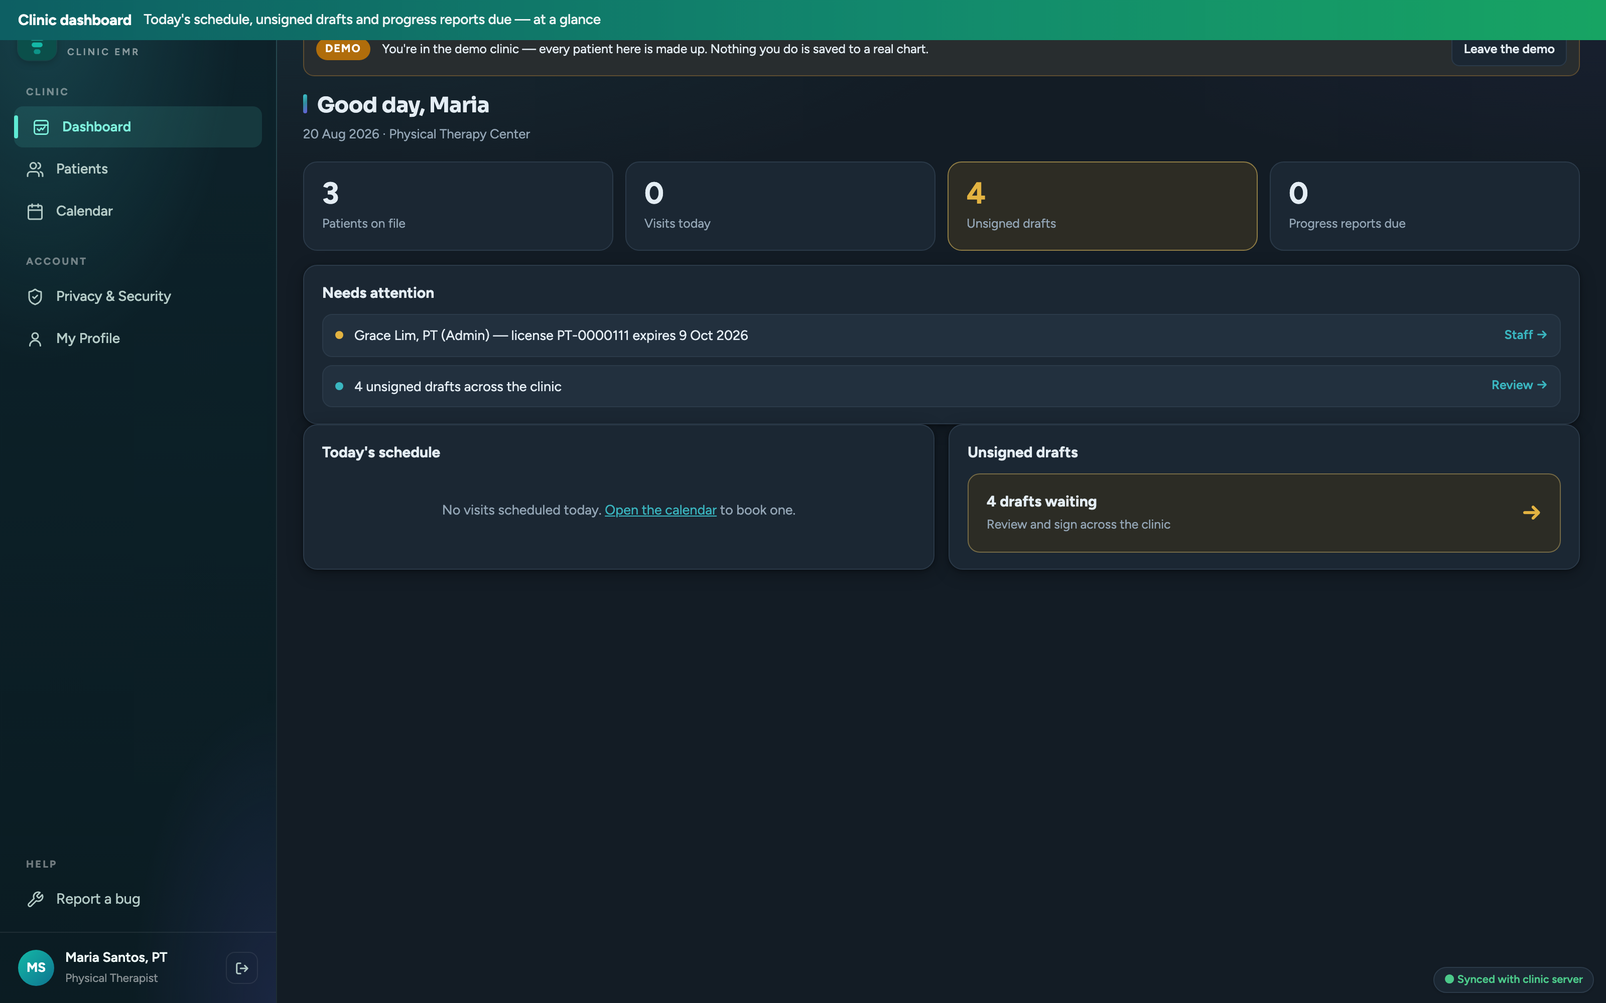
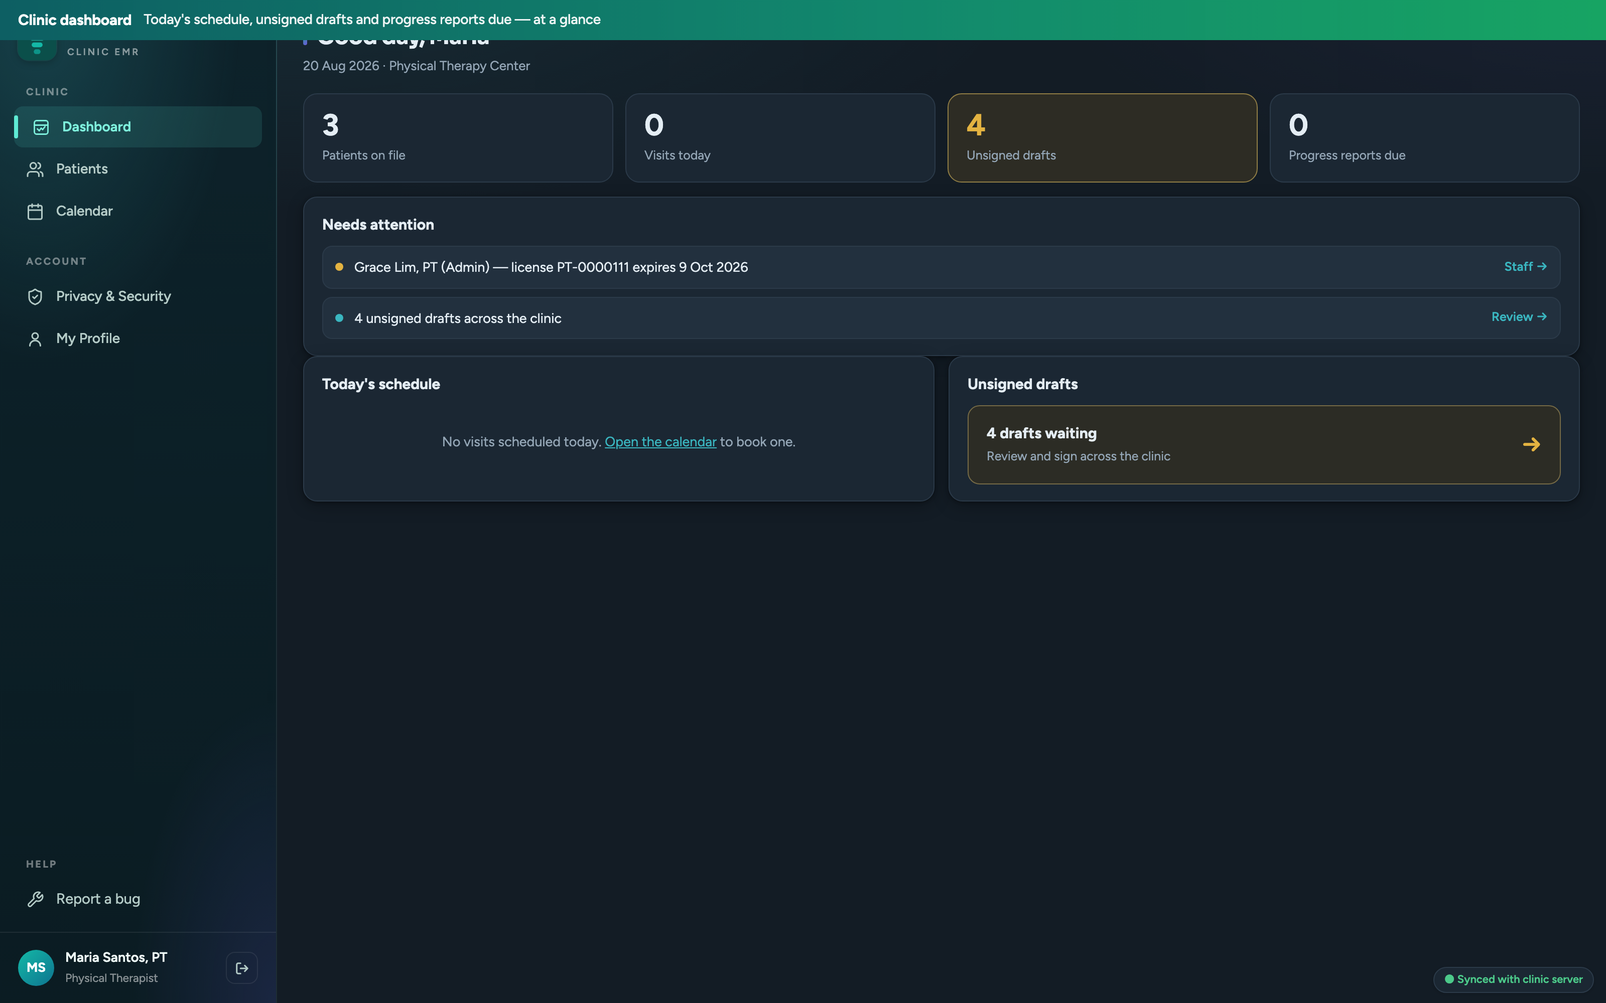
Photograph the product as it is now, from a script that can do it again
The walkthrough was showing an app we no longer ship. A single-card note
column, a "Listen" button, an "English" language picker — every one of those
had moved on, and the landing page was still promising them to anyone who
scrolled. A stale screenshot is worse than no screenshot: it is a promise you
can't keep, made to the exact person you are asking to trust you with patient
records.

The reason they went stale is that recapturing them was a manual afternoon.
So the fix is not twenty-four new images, it is tools/capture-screenshots.js —
boot a throwaway server on a free port with a fresh seed, drive the real app,
and write all three sets. `node tools/capture-screenshots.js` after a UI change,
or name the frames you want. Nothing in the pictures is posed: the note in
shots 05-08 is built by typing real sentences into the note's own dictation
box, so the pinned body-map finding and the three filed measurements are the
parser's actual output, and shot 08 is signed by actually signing it.

TWO BUGS FELL OUT OF POSING THE SHOTS, both in the fill counts added with the
workflow groups, and both of the same kind: a count that quietly said nothing
was there.

  The Objective group could never see measurements at all. It counted
  `data.measurements` — a key nothing writes, because dictation sorts them into
  rom / mmt / special / pain as it files them. Four measurements sat under a
  group reading 0. `outstandingWork` had the same wrong key and got away with
[…]

diff --git a/tools/capture-screenshots.js b/tools/capture-screenshots.js
@@ -98,6 +98,30 @@ async function signInAs(page, base, userId) {
   await sleep(400);
 }
 
+const toTop = async (page) => { await page.evaluate(() => window.scrollTo(0, 0)); await sleep(250); };
+
+/** Frame the note column on one workflow group by name.
+
+    "top" puts the group's header just under the fold — right for a group whose
+    content is the subject. "bottom" lands the group's END near the bottom of
+    the frame, which is what a LAST group needs: anchoring it to the top instead
+    scrolled the whole note off and left half the picture empty above the cards
+    that follow the note. Anchored to the group, not to a pixel offset, so a
+    copy change doesn't slide the subject out of frame. */
+async function frameGroup(page, name, align = "top") {
+  await page.evaluate(({ name, align }) => {
+    const g = [...document.querySelectorAll("details.doc-group")]
+      .find((x) => new RegExp(name, "i").test(x.querySelector(".doc-group-title").textContent));
+    if (!g) return;
+    const r = g.getBoundingClientRect();
+    const top = r.top + window.scrollY;
+    window.scrollTo(0, Math.max(0, align === "bottom"
+      ? top + r.height - window.innerHeight + 78
+      : top - 90));
+  }, { name, align });
+  await sleep(400);
+}
+
 async function goHash(page, hash) {
   await page.evaluate((h) => { location.hash = "#/dashboard"; }, hash);
   await sleep(120);
@@ -126,17 +150,25 @@ async function buildDictatedNote(page, base) {
   });
   builtDocId = id;
   await goHash(page, `#/doc/${id}`);
+  /* Ordered the way a visit is actually spoken, and chosen because the parser
+     files all four somewhere visible: the complaint pins the body map and fills
+     Subjective, the measurement run splits into three rows, the treatment
+     sentence fills Treatment summary and the last line drafts the Assessment.
+     Sentences that file nowhere make a picture of an empty form. */
   const lines = [
     "patient reports right shoulder pain seven out of ten, worse reaching overhead",
     "right shoulder abduction 90 degrees, external rotation 45, deltoid strength 4 out of 5",
-    "performed scapular retraction and rotator cuff isometrics, reviewed home programme",
+    "we did therapeutic exercise with the theraband and manual therapy to the posterior capsule",
+    "patient tolerated treatment well and reported less pain afterwards",
   ];
   for (const line of lines) {
     await page.fill("#typedDictation", line);
     await page.press("#typedDictation", "Enter");
     await sleep(350);
   }
-  await sleep(500);
+  // typing scrolls the box into view; the shot wants the top of the note
+  await page.evaluate(() => window.scrollTo(0, 0));
+  await sleep(600);
   return id;
 }
 
@@ -160,7 +192,7 @@ const SHOTS = [
   },
   {
     file: "walkthrough/02-patient-overview.jpg", theme: "light", as: "u-maria",
-    async act(page) { await goHash(page, "#/patient/p-juan"); await patientTab(page, "Overview"); },
+    async act(page) { await goHash(page, "#/patient/p-juan"); await patientTab(page, "Overview"); await toTop(page); },
   },
   {
     file: "walkthrough/03-documents.jpg", theme: "light", as: "u-maria",
@@ -186,12 +218,7 @@ const SHOTS = [
     async act(page, base) {
       if (!builtDocId) await buildDictatedNote(page, base);
       else await goHash(page, `#/doc/${builtDocId}`);
-      await page.evaluate(() => {
-        const g = [...document.querySelectorAll("details.doc-group")]
-          .find((x) => /Objective/.test(x.querySelector(".doc-group-title").textContent));
-        if (g) window.scrollTo(0, g.getBoundingClientRect().top + window.scrollY - 90);
-      });
-      await sleep(400);
+      await frameGroup(page, "Objective");
     },
   },
   {
@@ -211,17 +238,53 @@ const SHOTS = [
     },
   },
   {
-    /* A signed note, framed on its Billing group — the units are the point, and
-       the signature block underneath is what makes them a claim. */
+    /* The units are the point, and the signature under them is what makes them
+       a claim — so this is the note built above, charged from its own treatment
+       summary and then actually signed. A seeded note would have been less work
+       and a worse picture: those carry no transcript, so half the frame was an
+       empty left column. */
     file: "walkthrough/08-billing.jpg", theme: "light", as: "u-maria",
-    async act(page) {
-      await goHash(page, "#/doc/d-daily-juan-1");
+    async act(page, base) {
+      if (!builtDocId) await buildDictatedNote(page, base);
+      else await goHash(page, `#/doc/${builtDocId}`);
+
+      /* The charge sheet a therapist would have typed for what was dictated —
+         therapeutic exercise and manual therapy. 97110 is deliberately left
+         claiming one unit against 23 minutes: the claim this slide makes is
+         that the app works out what the units SHOULD be and flags the
+         disagreement, and a sheet that already adds up demonstrates nothing. */
+      await page.evaluate((id) => {
+        const S = window.TheraStore;
+        const d = S.getDoc(id);
+        d.data.charges = [
+          { code: "97110", desc: "Therapeutic exercise", minutes: 23, units: 1 },
+          { code: "97140", desc: "Manual therapy", minutes: 15, units: 1 },
+        ];
+        S.updateDocData(id, d.data, S.currentUser());
+      }, builtDocId);
+      await goHash(page, `#/doc/${builtDocId}`);
+
+      // e-sign. A demo account holds no password, so the modal re-auths on the
+      // typed name alone — see store.signDoc.
+      await page.click("#signBtn");
+      await page.waitForSelector("#sigName", { timeout: 10000 });
+      await page.fill("#sigName", "Maria Santos, PT");
+      await page.click("#sigOk");
+      await page.waitForFunction(() => !!document.querySelector(".lock-banner"), null, { timeout: 10000 });
+      await sleep(500);
+
+      /* Collapse the steps that aren't the subject. This is a real action a
+         real therapist takes — the groups exist to be shut — and it is what
+         makes the picture: the charge sheet and the signature sit high in the
+         column beside the body map, instead of a screenful below it with half
+         the frame left empty. */
       await page.evaluate(() => {
-        const g = [...document.querySelectorAll("details.doc-group")]
-          .find((x) => /Billing/.test(x.querySelector(".doc-group-title").textContent));
-        if (g) window.scrollTo(0, g.getBoundingClientRect().top + window.scrollY - 90);
+        document.querySelectorAll("details.doc-group").forEach((g) => {
+          if (!/Billing/i.test(g.querySelector(".doc-group-title").textContent)) g.open = false;
+        });
       });
       await sleep(400);
+      await toTop(page);
     },
   },
   {
@@ -236,8 +299,8 @@ const SHOTS = [
     file: "walkthrough/10-intake-guardrails.jpg", theme: "light", as: "u-maria",
     async act(page) {
       await goHash(page, "#/intake");
-      await page.fill("#in-first", "Juan");
-      await page.fill("#in-last", "Reyes");
+      await page.fill("#in-first", "Mark Anthony");
+      await page.fill("#in-last", "Bautista");
       await page.fill("#in-dob", "1988-04-12");
       await page.fill("#in-phone", "0917555");
       await page.click("#intakeSave");
@@ -303,6 +366,13 @@ async function capture(page, base, shot, session) {
 
   // re-assert after the act: a full re-render can replace <html>'s attributes
   await page.evaluate((t) => document.documentElement.setAttribute("data-theme", t), shot.theme);
+
+  /* The demo banner is honest and must stay in the app — but these captures
+     are pictures of the product a clinic buys, and that clinic never sees it.
+     Leaving it in would put "nothing you do is saved to a real chart" across
+     the top of our own marketing. Removed from the frame, not from the app. */
+  await page.evaluate(() => document.querySelector(".demo-banner")?.remove());
+  await sleep(150);
 
   const raw = path.join(TMP, `raw-${Math.random().toString(36).slice(2)}.png`);
 

diff --git a/store.js b/store.js
@@ -101,13 +101,17 @@
       patients: [
         {
           id: "p-juan",
-          firstName: "Juan", lastName: "Reyes",
+          /* Record ids are historical and deliberately stable — `p-juan` and
+             `p-liza` predate a rename of the demo patients and are referenced
+             by tests, the screenshot harness and seeded document ids. The id is
+             opaque; the name is what anyone reads. */
+          firstName: "Mark Anthony", lastName: "Bautista",
           dob: "1988-04-12", sex: "M",
           address: "12 Mabini St, Cebu City",
           phone: "+63 917 555 0101", email: "juan.reyes@example.com",
           referringPhysician: "Dr. R. Cruz (Ortho)",
           allergies: "Penicillin — rash. Latex sensitivity (use nitrile gloves).",
-          emergencyContact: { name: "Marites Reyes", relationship: "Spouse", phone: "+63 917 555 0111" },
+          emergencyContact: { name: "Marites Bautista", relationship: "Spouse", phone: "+63 917 555 0111" },
           insurance: { provider: "PhilHealth", memberId: "PH-4451-2231", notes: "Co-pay ₱150/visit" },
           authorization: { visitsAuthorized: 18, expiresOn: t(46, 12, 0).slice(0, 10), reference: "AUTH-88213" },
           goals: [
@@ -127,20 +131,20 @@
           ],
           attachments: [
             { id: "a-1", name: "Referral - Dr. Cruz.txt", type: "text/plain",
-              dataUrl: "data:text/plain;base64," + b64("Referral: Juan Reyes\nDx: Right rotator cuff strain\nPT eval and treat 2-3x/week for 6 weeks.\n- Dr. R. Cruz"),
+              dataUrl: "data:text/plain;base64," + b64("Referral: Mark Anthony Bautista\nDx: Right rotator cuff strain\nPT eval and treat 2-3x/week for 6 weeks.\n- Dr. R. Cruz"),
               uploadedBy: "u-ana", uploadedAt: t(-14, 9, 0) },
           ],
           createdBy: "u-ana", createdAt: t(-14, 8, 30),
         },
         {
           id: "p-liza",
-          firstName: "Liza", lastName: "Mercado",
+          firstName: "Marilou", lastName: "Gonzales",
           dob: "1975-11-02", sex: "F",
           address: "88 Osmeña Blvd, Cebu City",
           phone: "+63 917 555 0202", email: "liza.mercado@example.com",
           referringPhysician: "Dr. A. Tan (Family Med)",
           allergies: "",
-          emergencyContact: { name: "Ramon Mercado", relationship: "Son", phone: "+63 917 555 0222" },
+          emergencyContact: { name: "Ramon Gonzales", relationship: "Son", phone: "+63 917 555 0222" },
           insurance: { provider: "Maxicare", memberId: "MX-99-887766", notes: "" },
           // deliberately near the end of the authorisation, so the warning shows
           authorization: { visitsAuthorized: 8, expiresOn: t(12, 12, 0).slice(0, 10), reference: "MX-AUTH-5512" },
@@ -349,18 +353,18 @@
       // A little activity history so the Privacy &amp; Security log reads like a
       // living feed (varied actions/people) the moment the demo opens.
       audit: [
-        { time: t(-14, 8, 30), userId: "u-ana", action: "patient-created", detail: "Juan Reyes" },
-        { time: t(-14, 9, 0), userId: "u-ana", action: "attachment-added", detail: "Referral - Dr. Cruz.txt · Juan Reyes" },
-        { time: t(-13, 10, 0), userId: "u-maria", action: "doc-created", detail: "Initial Evaluation for Juan Reyes" },
-        { time: t(-13, 11, 0), userId: "u-maria", action: "doc-signed", detail: "Initial Evaluation for Juan Reyes" },
-        { time: t(-12, 14, 40), userId: "u-maria", action: "doc-signed", detail: "Daily Treatment Note — Visit 1 for Juan Reyes" },
-        { time: t(-10, 10, 0), userId: "u-ana", action: "patient-created", detail: "Liza Mercado" },
-        { time: t(-9, 9, 20), userId: "u-maria", action: "transcript-refined", detail: "Initial Evaluation · Liza Mercado" },
-        { time: t(-7, 15, 0), userId: "u-maria", action: "ai-chart-review", detail: "Juan Reyes" },
-        { time: t(-5, 14, 40), userId: "u-maria", action: "doc-signed", detail: "Daily Treatment Note — Visit 4 for Juan Reyes" },
-        { time: t(-4, 11, 0), userId: "u-ana", action: "appointment-created", detail: "Juan Reyes · 9:00 AM" },
+        { time: t(-14, 8, 30), userId: "u-ana", action: "patient-created", detail: "Mark Anthony Bautista" },
+        { time: t(-14, 9, 0), userId: "u-ana", action: "attachment-added", detail: "Referral - Dr. Cruz.txt · Mark Anthony Bautista" },
+        { time: t(-13, 10, 0), userId: "u-maria", action: "doc-created", detail: "Initial Evaluation for Mark Anthony Bautista" },
+        { time: t(-13, 11, 0), userId: "u-maria", action: "doc-signed", detail: "Initial Evaluation for Mark Anthony Bautista" },
+        { time: t(-12, 14, 40), userId: "u-maria", action: "doc-signed", detail: "Daily Treatment Note — Visit 1 for Mark Anthony Bautista" },
+        { time: t(-10, 10, 0), userId: "u-ana", action: "patient-created", detail: "Marilou Gonzales" },
+        { time: t(-9, 9, 20), userId: "u-maria", action: "transcript-refined", detail: "Initial Evaluation · Marilou Gonzales" },
+        { time: t(-7, 15, 0), userId: "u-maria", action: "ai-chart-review", detail: "Mark Anthony Bautista" },
+        { time: t(-5, 14, 40), userId: "u-maria", action: "doc-signed", detail: "Daily Treatment Note — Visit 4 for Mark Anthony Bautista" },
+        { time: t(-4, 11, 0), userId: "u-ana", action: "appointment-created", detail: "Mark Anthony Bautista · 9:00 AM" },
         { time: t(-3, 16, 20), userId: "u-grace", action: "settings-updated", detail: "progress report every 5 visits" },
-        { time: t(-2, 7, 5), userId: null, action: "reminder-sent", detail: "Liza Mercado · SMS (simulated)" },
+        { time: t(-2, 7, 5), userId: null, action: "reminder-sent", detail: "Marilou Gonzales · SMS (simulated)" },
         { time: t(-1, 8, 15), userId: null, action: "access-requested", detail: "google:ramil.torres@gmail.com" },
         { time: t(0, 7, 50), userId: null, action: "access-requested", detail: "google:bea.n@bayanihanpt.ph" },
       ],

diff --git a/app.js b/app.js
@@ -1309,7 +1309,7 @@ ${walkthroughMarkup()}`;
       title: "Measurements sort themselves into the right rows.",
       now: "ROM and strength go on a paper form, then get copied into the note, then copied again into the progress report.",
       here: 'Say <i>"right shoulder abduction 90 degrees, external rotation 45, deltoid strength 4 over 5"</i> and all three land as separate, labelled measurements — joint, motion, side and value — without you naming the joint twice.',
-      where: "Inside any note · <b>Objective measurements</b>, right column",
+      where: "Inside any note · step <b>Objective</b>, in the note column",
     },
     {
       shot: "07-ai-review",
@@ -1330,7 +1330,7 @@ ${walkthroughMarkup()}`;
       title: "The units are counted for you.",
       now: "Someone works out timed units by hand against the 8-minute rule, and a miscount is either lost revenue or a claim problem.",
       here: "Enter the interventions and minutes. TheraChart computes what the units <i>should</i> be and flags a mismatch instead of silently billing whatever was typed. The signature, licence number and timestamp lock to the note.",
-      where: "Inside any note · <b>Billing — CPT codes, minutes and units</b>",
+      where: "Inside any note · the last step, <b>Billing</b>",
     },
     {
       shot: "04-patient-info",
@@ -5801,6 +5801,11 @@ ${!canDoc && !locked ? `<div class="banner warn">Read-only: your account cannot 
     drawMapNotes(doc, dstate);
     drawTranscript(doc, null, dstate);
     refreshMeasTable(doc);
+    /* The note's own header summary and the per-group fill counts both describe
+       what is in the document, and dictation is the main thing that puts
+       anything there — without this a group filled itself while its count sat
+       at 0, which is precisely the case the count exists for. */
+    renderFieldGuide(doc);
     const log = document.getElementById("routeLog");
     if (log) log.textContent = routed.length ? "Filed: " + routed.join(" · ") : "Heard (saved to transcript)";
   }
@@ -5822,6 +5827,7 @@ ${!canDoc && !locked ? `<div class="banner warn">Read-only: your account cannot 
     temp.innerHTML = measurementEditor(doc, doc.status !== "signed" && S.canDocument(S.currentUser()));
     holder.replaceWith(temp.firstElementChild);
     bindMeasurementEditor(doc, S.currentUser());
+    renderFieldGuide(doc);
   }
 
   function addDocMapPoint(doc, m, uttId, time) {
@@ -5905,9 +5911,17 @@ ${!canDoc && !locked ? `<div class="banner warn">Read-only: your account cannot 
      "@measurements" / "@goals". Both answer the same question — has this part
      of the note got anything in it — which is what the group's fill count on
      the header is counting. */
-  const docPartCount = (doc, id) => (id === "goals"
-    ? S.goalsFor(doc.patientId).length
-    : ((doc.data || {})[id] || []).length);
+  /* Measurements are not one array — dictation sorts them into rom / mmt /
+     special / pain as it files them, and the editor renders the four as one
+     table. Counting `data.measurements` counted a key nothing ever writes, so
+     the Objective group read 0 with four measurements sitting under it. */
+  const MEASUREMENT_KEYS = ["rom", "mmt", "special", "pain"];
+  const docPartCount = (doc, id) => {
+    const data = doc.data || {};
+    if (id === "goals") return S.goalsFor(doc.patientId).length;
+    if (id === "measurements") return MEASUREMENT_KEYS.reduce((n, k) => n + ((data[k] || []).length), 0);
+    return (data[id] || []).length;
+  };
   const docItemDone = (doc, it) => (it.charAt(0) === "@"
     ? docPartCount(doc, it.slice(1)) > 0
     : !!String((doc.data || {})[it] || "").trim());
@@ -5953,9 +5967,9 @@ ${!canDoc && !locked ? `<div class="banner warn">Read-only: your account cannot 
     }
     for (const [key, def] of Object.entries(SECTION_SOURCES)) {
       if (def.source !== "yours" || !def.types.includes(doc.type)) continue;
-      // goals belong to the episode of care, not to one note
-      const have = key === "goals" ? S.goalsFor(doc.patientId).length : (doc.data[key] || []).length;
-      if (have) continue;
+      // goals belong to the episode of care, not to one note; measurements are
+      // spread across four arrays — docPartCount knows both
+      if (docPartCount(doc, key)) continue;
       out.push({ label: def.label, source: "yours", field: key });
     }
     return out;
@@ -7666,7 +7680,7 @@ ${privacyInfoAccordion(geminiOn)}
       ${isOwner ? "" : `<div class="banner" style="margin-top:8px; font-size:12.5px">New accounts are approved by the operator, so this asks rather than creates. Give them a temporary password to hand over — the person is made to choose their own the first time they sign in. You can remove anyone from this clinic yourself, below.</div>`}
       <div style="border:1px solid var(--border); border-radius:10px; padding:12px; margin-top:8px">
         <div class="field-row">
-          <div class="field"><label>Full name</label><input id="nu-name" placeholder="e.g. Ana Reyes, PT" /></div>
+          <div class="field"><label>Full name</label><input id="nu-name" placeholder="e.g. Ana Bautista, PT" /></div>
           <div class="field"><label>Role</label><select id="nu-role">
             <option value="therapist">Therapist</option><option value="admin">Administrator</option><option value="frontdesk">Front desk</option>
           </select></div>

diff --git a/e2e/smoke.spec.js b/e2e/smoke.spec.js
@@ -89,8 +89,8 @@ test.describe("TheraChart", () => {
     await page.getByRole("link", { name: /^patients$/i }).first().click();
 
     // the three seeded demo patients, by name, on screen
-    await expect(page.getByText("Reyes, Juan")).toBeVisible();
-    await expect(page.getByText("Mercado, Liza")).toBeVisible();
+    await expect(page.getByText("Bautista, Mark Anthony")).toBeVisible();
+    await expect(page.getByText("Gonzales, Marilou")).toBeVisible();
     await expect(page.getByText("Villanueva, Mateo")).toBeVisible();
 
     // and the app is talking to the server, not silently in on-device mode
@@ -107,11 +107,11 @@ test.describe("TheraChart", () => {
     // The API test proves the payload is scoped. This proves nothing leaked
     // into the rendered page or the device's own storage either.
     const html = await page.content();
-    for (const name of ["Reyes", "Mercado", "Villanueva"]) {
+    for (const name of ["Bautista", "Gonzales", "Villanueva"]) {
       expect(html, `"${name}" must not appear anywhere in another clinic's page`).not.toContain(name);
     }
     const cached = await page.evaluate(() => localStorage.getItem("therachart-emr-v1") || "");
-    for (const name of ["Reyes", "Mercado", "Villanueva"]) {
+    for (const name of ["Bautista", "Gonzales", "Villanueva"]) {
       expect(cached, `"${name}" must not sit in another clinic's localStorage`).not.toContain(name);
     }
   });
@@ -148,6 +148,14 @@ test.describe("TheraChart", () => {
 
     // the patient's own words are kept verbatim
     await expect(page.locator("body")).toContainText("reach overhead");
+
+    /* …and the Objective step's fill count notices. The count is the only
+       thing telling a therapist that a COLLAPSED group filled itself, and it
+       was counting `data.measurements` — a key dictation never writes, since
+       it sorts them into rom / mmt / special / pain. So the group read 0 with
+       measurements sitting under it. */
+    const objective = page.locator("details.doc-group", { hasText: "Objective" }).first();
+    await expect(objective.locator(".doc-group-count")).toHaveText(/^1\/\d+$/);
   });
 
   /* A therapist reads measurements out in a run — the joint once, then the

diff --git a/test/store.test.js b/test/store.test.js
@@ -66,7 +66,7 @@ check("amendment appends with e-signature", !amended.error && amended.doc.amendm
 check("amendment keeps original intact", amended.doc.data.summary === "TherEx and manual therapy.");
 
 // --- progress report trigger ---------------------------------------------
-// Seed has 4 signed dailies for Juan; the one created above makes 5.
+// Seed has 4 signed dailies for Bautista; the one created above makes 5.
 check("progress due after 5th visit", store.progressDue("p-juan") === true);
 const prog = store.createDoc("p-juan", "progress", maria);
 check("progress report carries over eval subjective",

diff --git a/sw.js b/sw.js
@@ -2,7 +2,7 @@
    (and offline) once installed to a phone's home screen. API calls always
    go to the network; clinical data itself lives in the store/server. */
 
-const CACHE = "therachart-v26";
+const CACHE = "therachart-v27";
 const SHELL = [
   "./", "./index.html", "./styles.css",
   "./parser.js", "./insights.js", "./clinical.js", "./validate.js", "./store.js", "./app.js", "./sync.js",
